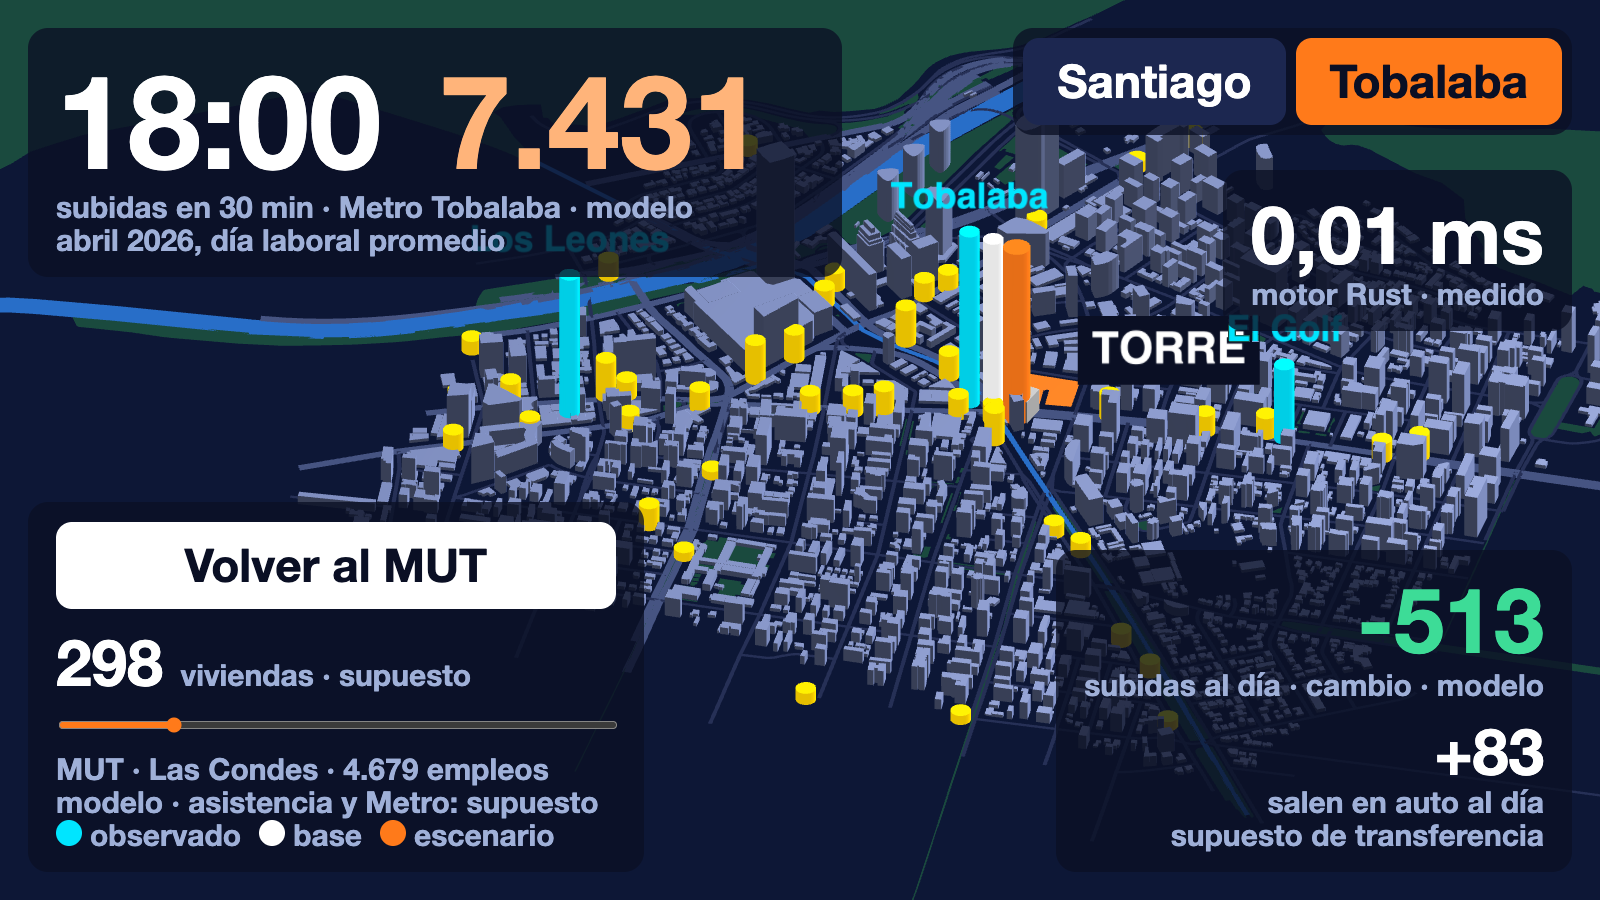
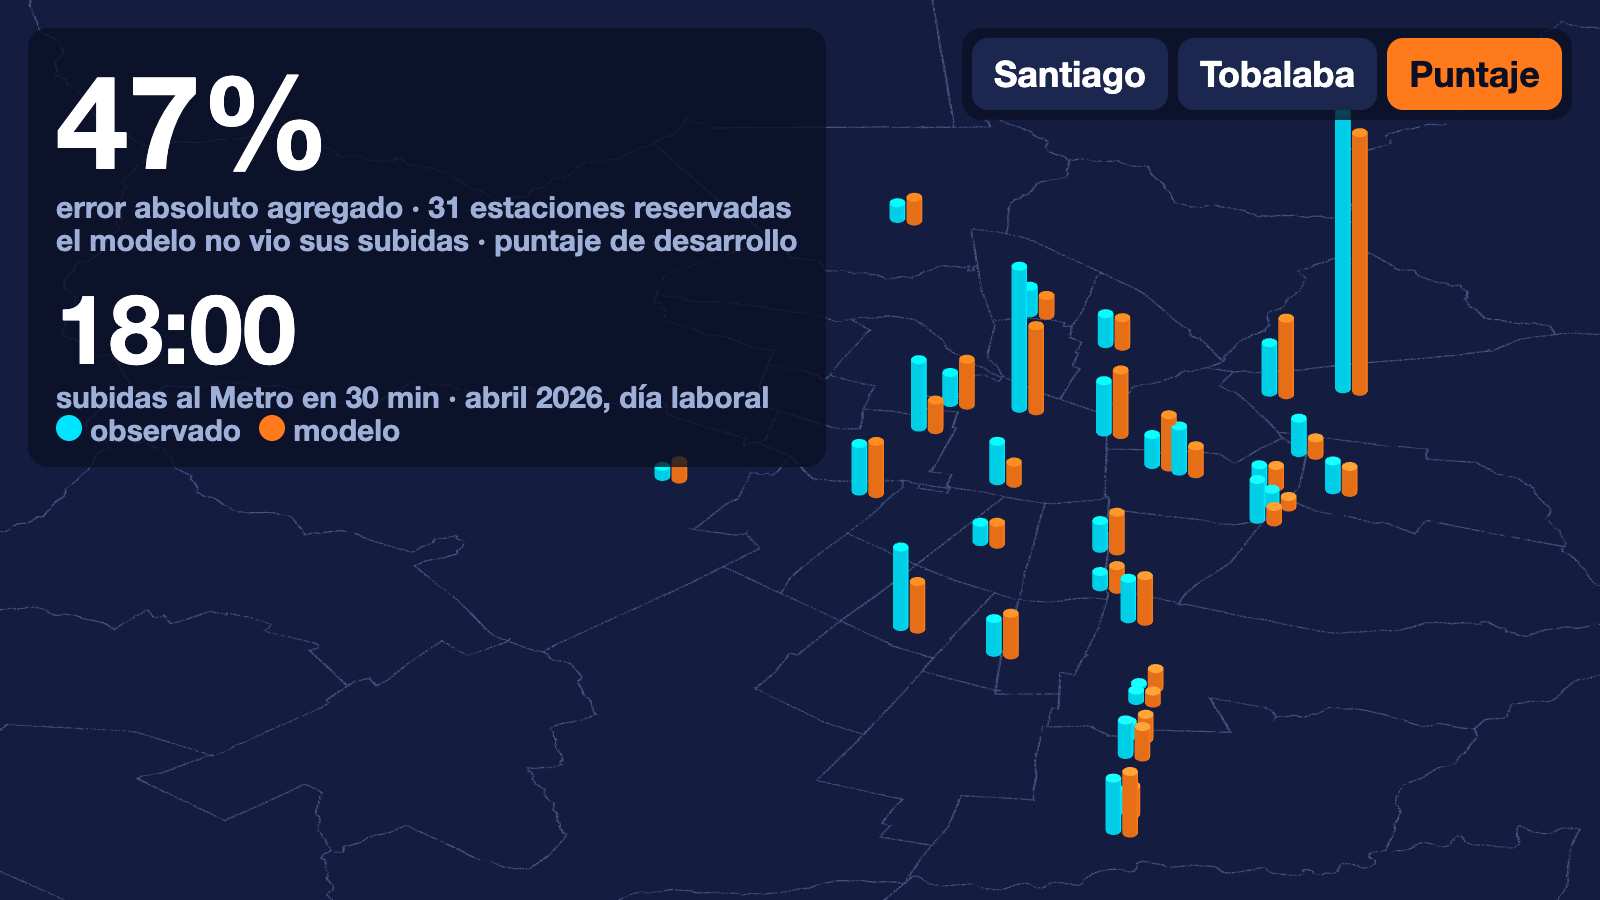
Scene v2.5: Puntaje view of the 31 held-out stations (L1 score file)

diff --git a/web/index.html b/web/index.html
@@ -9,10 +9,10 @@
   #map { position: absolute; inset: 0; } canvas { background: none !important; }
   .box { position: absolute; padding: 20px 28px; background: rgba(10, 15, 36, .78); border-radius: 20px; font-variant-numeric: tabular-nums; }
   small { display: block; font-size: 30px; color: #9fb0d8; }
-  body.s .t, body.t .s { display: none !important; }
-  #switch { top: 28px; right: 28px; padding: 10px; display: flex; gap: 10px; }
+  body:not(.s) .s, body:not(.t) .t, body:not(.p) .p { display: none !important; }
+  #switch { top: 28px; right: 28px; padding: 10px; display: flex; gap: 10px; } #switch button { font-size: 36px; padding: 16px 22px; }
   button { font: inherit; font-size: 46px; padding: 18px 34px; color: #fff; background: #1c2750; border: 0; border-radius: 16px; cursor: pointer; }
-  body.s #vs, body.t #vt, #go, #reset { color: #0a0f24; background: #ff7a1a; }
+  body.s #vs, body.t #vt, body.p #vp, #go, #reset { color: #0a0f24; background: #ff7a1a; }
   #go.on { background: #fff; }
   .tl { top: 28px; left: 28px; } .big { font-size: 130px; display: inline-block; margin-right: 50px; } .mid { font-size: 96px; } #zname { font-size: 72px; color: #ff7a1a; }
   #clock { cursor: pointer; }
@@ -27,7 +27,7 @@
 </style>
 <body class="t">
 <div id="map"></div>
-<div id="switch" class="box"><button id="vs">Santiago</button><button id="vt">Tobalaba</button></div>
+<div id="switch" class="box"><button id="vs">Santiago</button><button id="vt">Tobalaba</button><button id="vp">Puntaje</button></div>
 
 <div class="box tl t" id="clock">
   <div class="big" id="hhmm">--:--</div>
@@ -58,6 +58,16 @@
   <small style="margin-top:14px"><i style="background:#ff4d6d;margin-left:0"></i>gana empleos<i style="background:#3ddc97"></i>pierde · modelo</small>
 </div>
 
+<div class="box s" style="bottom:28px;right:28px;text-align:right"><small style="color:#fff">reconstrucción del Censo 2024</small><small>+ sensibilidad, sin validar</small></div>
+<div class="box tl p">
+  <div class="big" id="wape">—</div>
+  <small>error absoluto agregado · 31 estaciones reservadas</small>
+  <small>el modelo no vio sus subidas · puntaje de desarrollo</small>
+  <div class="mid" id="hh2" style="margin-top:18px">--:--</div>
+  <small>subidas al Metro en 30 min · abril 2026, día laboral</small>
+  <small><i style="background:#00e5ff;margin-left:0"></i>observado<i style="background:#ff7a1a"></i>modelo</small>
+</div>
+
 <div id="engine" class="box"><span id="ms">—</span><small id="msk">motor Rust</small></div>
 <div id="delta" class="box t"><span id="dv"></span><small>Cambio de subidas al día, modelo</small>
   <div style="display:flex;justify-content:flex-end;gap:32px;margin-top:14px;font-size:64px">
@@ -74,14 +84,15 @@ const HOMES = 298;            // average dwellings of an RM tower of 15 floors o
 const KZ = 0.02;              // metres of comuna height for each person who works there
 const VIEWS = {
   t: {longitude: -70.6040, latitude: -33.4205, zoom: 15.2, pitch: 55, bearing: -28},
-  s: {longitude: -70.69, latitude: -33.47, zoom: 10.9, pitch: 50, bearing: -15}};
+  s: {longitude: -70.69, latitude: -33.47, zoom: 10.9, pitch: 50, bearing: -15},
+  p: {longitude: -70.72, latitude: -33.47, zoom: 11.2, pitch: 55, bearing: -15}};
 const $ = id => document.getElementById(id);
 const fmt = (n, d = 0) => n.toLocaleString('es-CL', {maximumFractionDigits: d, minimumFractionDigits: d});
 const height = v => 15 + 4 * Math.sqrt(v);  // square root with a 15 m floor: a bus stop stays visible
 const at = (a, t) => { const i = Math.floor(t), x = a[i], y = a[Math.min(i + 1, 47)]; return x == null || y == null ? x : x + (y - x) * (t - i); };
 const post = (path, body) => fetch(API + path, {method: 'POST', headers: {'content-type': 'application/json'}, body: JSON.stringify(body)}).then(r => r.ok ? r.json() : Promise.reject());
 
-let view = 't', stops, tob, buildings, ground, communes, t = FIRST, playing = true, active = false, homes = HOMES;
+let view = 't', score, stops, tob, buildings, ground, communes, t = FIRST, playing = true, active = false, homes = HOMES;
 let site = null;                         // last answer of POST /api/site-scenario
 let world = null, sim = null, sel = '13123', seq = 0;  // GET /api/world, last POST /api/simulate, selected comuna
 
@@ -217,6 +228,17 @@ function santiago() {
   ];
 }
 
+// ---------- Puntaje: the station model against 31 stations that it did not see ----------
+function puntaje() {
+  const col = (id, key, dx, color) => new ColumnLayer({id, data: score.stations.filter(s => at(s.observed, t) != null),
+    getPosition: s => [s.lon + dx, s.lat], diskResolution: 16, radius: 220, getElevation: s => at(s[key], t) * 1.5,  // 1.5 m for each boarding, same scale for both
+    getFillColor: color, material: {ambient: .9, diffuse: .3}, updateTriggers: {getElevation: t}});
+  return [
+    new GeoJsonLayer({id: 'communes-flat', data: communes, getFillColor: [20, 28, 64], getLineColor: [70, 84, 130], getLineWidth: 60}),
+    col('obs', 'observed', -0.0026, [0, 229, 255]), col('pred', 'predicted', 0.0026, [255, 122, 26]),
+  ];
+}
+
 // ---------- page ----------
 function draw() {
   if (view == 't') {
@@ -228,9 +250,10 @@ function draw() {
     const day = Math.max(0, Math.sin((t - 13) / 28 * Math.PI));  // 0 at 06:30 and 20:30, 1 near 13:30
     document.body.style.background = `rgb(${6 + 14 * day}, ${9 + 26 * day}, ${26 + 52 * day})`;
   } else document.body.style.background = '';
+  if (view == 'p') { const i = Math.floor(t); $('hh2').textContent = String(i >> 1).padStart(2, '0') + ':' + (i % 2 ? '30' : '00'); }
   $('engine').style.display = ms[view] ? 'block' : 'none';
   if (ms[view]) [$('ms').textContent, $('msk').textContent] = ms[view];
-  deckgl.setProps({layers: view == 't' ? tobalaba() : santiago()});
+  deckgl.setProps({layers: view == 't' ? tobalaba() : view == 's' ? santiago() : puntaje()});
 }
 
 function tick() {
@@ -244,7 +267,7 @@ function show(v) {
   draw();
 }
 
-$('vs').onclick = () => show('s'); $('vt').onclick = () => show('t');
+$('vs').onclick = () => show('s'); $('vt').onclick = () => show('t'); $('vp').onclick = () => show('p');
 $('clock').onclick = () => playing = !playing;
 $('slider').oninput = e => { homes = +e.target.value; $('n').textContent = fmt(homes); if (active) siteScenario(); else draw(); };
 $('go').onclick = () => {
@@ -258,8 +281,9 @@ $('jobs').oninput = $('housing').oninput = simulate;
 $('reset').onclick = () => { $('jobs').value = $('housing').value = 1; simulate(); };
 
 const get = u => fetch(u).then(r => r.json());
-Promise.all(['stops.json', 'tobalaba_observations.json', 'los_leones_observations.json', 'el_golf_observations.json', 'buildings.geojson', 'ground.geojson', 'communes.geojson']
-    .map(u => get((u === 'stops.json' || u === 'ground.geojson' ? 'data/' : '../data/mvp/') + u))).then(([bus, ...r]) => {
+Promise.all(['score.json', 'stops.json', 'tobalaba_observations.json', 'los_leones_observations.json', 'el_golf_observations.json', 'buildings.geojson', 'ground.geojson', 'communes.geojson']
+    .map(u => get((/^(score|stops|ground)/.test(u) ? 'data/' : '../data/mvp/') + u))).then(([sc, bus, ...r]) => {
+  score = sc; $('wape').textContent = fmt(sc.wape_bins * 100) + '%';  // the number of tools/pack/check_score.py
   [ground, communes] = r.splice(-2);
   // the diorama tile: keep the buildings inside the frame of the ground extract
   buildings = r.pop().features.filter(f => { const [x, y] = f.geometry.coordinates.flat(3); return x > -70.6105 && x < -70.5915 && y > -33.4255 && y < -33.4105; });

diff --git a/web/score.py b/web/score.py
@@ -1,0 +1,24 @@
+"""Station score for the page -> web/data/score.json. This script computes nothing itself.
+
+It runs the Rust station model (layer L1: points within 1,000 m of the nearest Metro parent)
+and the frozen scorer, and keeps their outputs for the 31 held-out stations:
+observed April 2026 LABORAL boardings and the model prediction, 48 half hours each.
+Run from the repo root: python3 web/score.py   (needs cargo on PATH)
+"""
+import json, re, subprocess, sys
+
+sys.argv = sys.argv[:1]  # the scorer reads sys.argv at import
+PRED = "/tmp/station_predictions.json"
+subprocess.run(["cargo", "run", "--release", "--manifest-path", "engine/Cargo.toml", "--bin", "stations",
+                "--", "data/mvp", PRED, "1000"], check=True)
+out = subprocess.run([sys.executable, "-I", "tools/pack/check_score.py", PRED], check=True, capture_output=True, text=True).stdout
+wape = dict(re.findall(r"(WAPE_\w+)\s*=\s*([\d.]+)", out))
+
+exec(re.search(r"HOLDOUT = \{.*?\n\}", open("tools/pack/check_score.py").read(), re.S).group())  # the frozen 31 IDs
+pred = json.load(open(PRED))
+stations = [{"id": s["station"]["id"], "name": s["station"]["name"], "lon": s["station"]["longitude"], "lat": s["station"]["latitude"],
+             "observed": s["half_hour_bins"]["LABORAL"], "predicted": [round(x, 1) for x in pred[s["source_name"]]]}
+            for s in json.load(open("data/mvp/metro_observations.json"))["stations"] if s["station"]["id"] in HOLDOUT.values()]
+json.dump({"layer": "L1", "wape_bins": float(wape["WAPE_bins"]), "wape_daily": float(wape["WAPE_daily"]), "stations": stations},
+          open("web/data/score.json", "w"))
+print(len(stations), "stations", wape)
